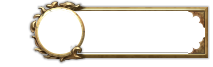
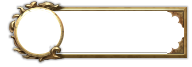
calculator split quest and skill styles

Changed region(s): [[0.0312, 0.0, 0.4062, 0.9552], [0.8438, 0.1194, 1.0, 0.8657]]

diff --git a/client/src/components/calculator/Skill.vue b/client/src/components/calculator/Skill.vue
@@ -1,9 +1,9 @@
 <template>
-    <div @mouseover="showPopup()" @mousemove="mouseMove" @mouseleave="hidePopup()" class="skill-button unselectable" >
-        <div :style="getBorder(skill.quest)" class="skill-border"></div>
-        <div @click="onClick" @contextmenu.prevent="onRightClick" class="skill-icon inline-block" :style="getIcon(skill.icon)"></div>
-        <div @click="onClick" @contextmenu.prevent="onRightClick" class="skill-name inline-block" :style="isObtained()">
-            <span class="position-block">
+    <div @mouseover="showPopup()" @mousemove="mouseMove" @mouseleave="hidePopup()" class="skill-button unselectable" :class="skill.quest ? 'quest-button' : ''">
+        <div :style="getBorder(skill.quest)" :class="skill.quest ? 'quest-border' : 'skill-border'"></div>
+        <div @click="onClick" @contextmenu.prevent="onRightClick" :class="skill.quest ? 'quest-icon' : 'skill-icon'" :style="getIcon(skill.icon)"></div>
+        <div @click="onClick" @contextmenu.prevent="onRightClick" class="skill-name inline-block" :class="skill.quest ? 'quest-name' : '' " :style="isObtained()">
+            <span class="position-block" :class="skill.quest ? 'quest-block' : ''">
                 <p>{{ skill.name }}</p>
             </span>
         </div>
@@ -276,10 +276,24 @@ export default {
     position: absolute;
     top: 0px;
     left: 0px;
+    width: 189px;
+    height: 67px;
+}
+.quest-border {
+    position: absolute;
+    top: 0px;
+    left: 0px;
     width: 210px;
     height: 67px;
 }
 .skill-icon {
+    width: 72px;
+    height: 72px;
+    margin-top: -5px;
+    position: absolute;
+    left: 2px;
+}
+.quest-icon {
     width: 72px;
     height: 72px;
     margin-top: -5px;
@@ -290,7 +304,7 @@ export default {
     position: absolute;
     height: 60px;
     top: 2px;
-    left: 196px;
+    left: 175px;
 }
 .skill-rank {
     display: block;
@@ -299,8 +313,7 @@ export default {
 }
 .skill-name {
     margin-top: 11px;
-    margin-left: 68px;
-    padding-left: 30px;
+    margin-left: 42px;
     height: 43px;
     width: 136px;
     cursor: context-menu;
@@ -310,6 +323,9 @@ export default {
     color: #ECE9CB;
     /* color: #EBE6CD; */
 }
+.quest-name {
+    margin-left: 68px;
+}
 .position-block {
     display:table;
     position: absolute;
@@ -317,7 +333,10 @@ export default {
     line-height:normal;
     width: 100px;
     height: 43px;
-    left: 100px;
+    left: 72px;
+}
+.quest-block {
+    left: 94px;
 }
 .position-block p {
     display: table-cell;

diff --git a/client/src/components/calculator/CalcRow.vue b/client/src/components/calculator/CalcRow.vue
@@ -48,27 +48,25 @@ export default {
 
 <style>
 .grouping {
-    padding: 10px 10px 10px 0;
+    padding: 10px;
     border: 1px solid darkgray;
     height: 82px;
 }
 .skill-button {
     height: 67px;
-    width: 210px;
-    margin-right: 25px;
+    width: 192px;
+    margin-right: 20px;
+    margin-left: 20px;
     line-height: 60px;
     position: relative;
     color: black;
 }
+.quest-button {
+    width: 210px;
+}
 .grouping .skill-button {
-    margin-left: -6px;
     margin-right: 10px;
-}
-.grouping .skill-button:last-child {
-    margin-right: 0px;
-}
-.grouping .skill-button:first-child {
-    margin-left: 0px;
+    margin-left: 10px;
 }
 
 </style>

diff --git a/server/src/tempDataBase/highElvesDB.js b/server/src/tempDataBase/highElvesDB.js
@@ -1878,7 +1878,7 @@ exports.skills = [
         icon: "battle-charge",
         ranks: [
             { effects: [
-                { icon: "charge", description: "Charge bonus: +6 for Cold One Knights, Cold One Dread Knights and Cold One Chariot units", ps: "Lord's army" }
+                { icon: "charge", description: "Charge bonus: +6 for Chariot, War Lion and Dragon Princes units", ps: "Lord's army" }
             ] },
             { effects: [
                 { icon: "melee", description: "Melee attack: +6 for Chariot, War Lion and Dragon Princes units", ps: "Lord's army" },
